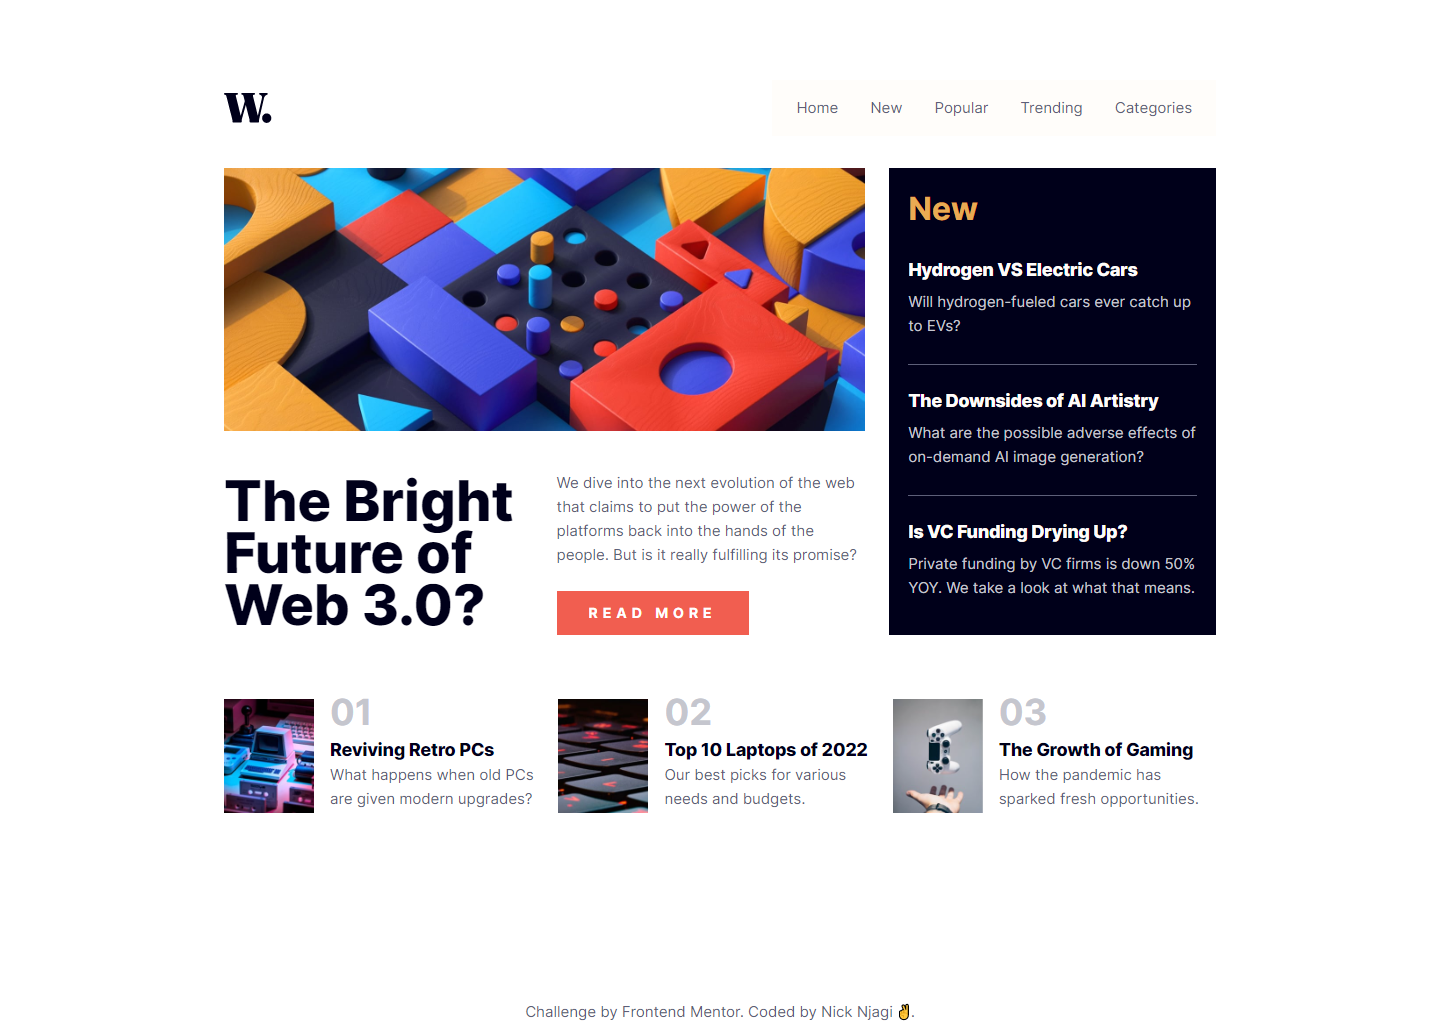
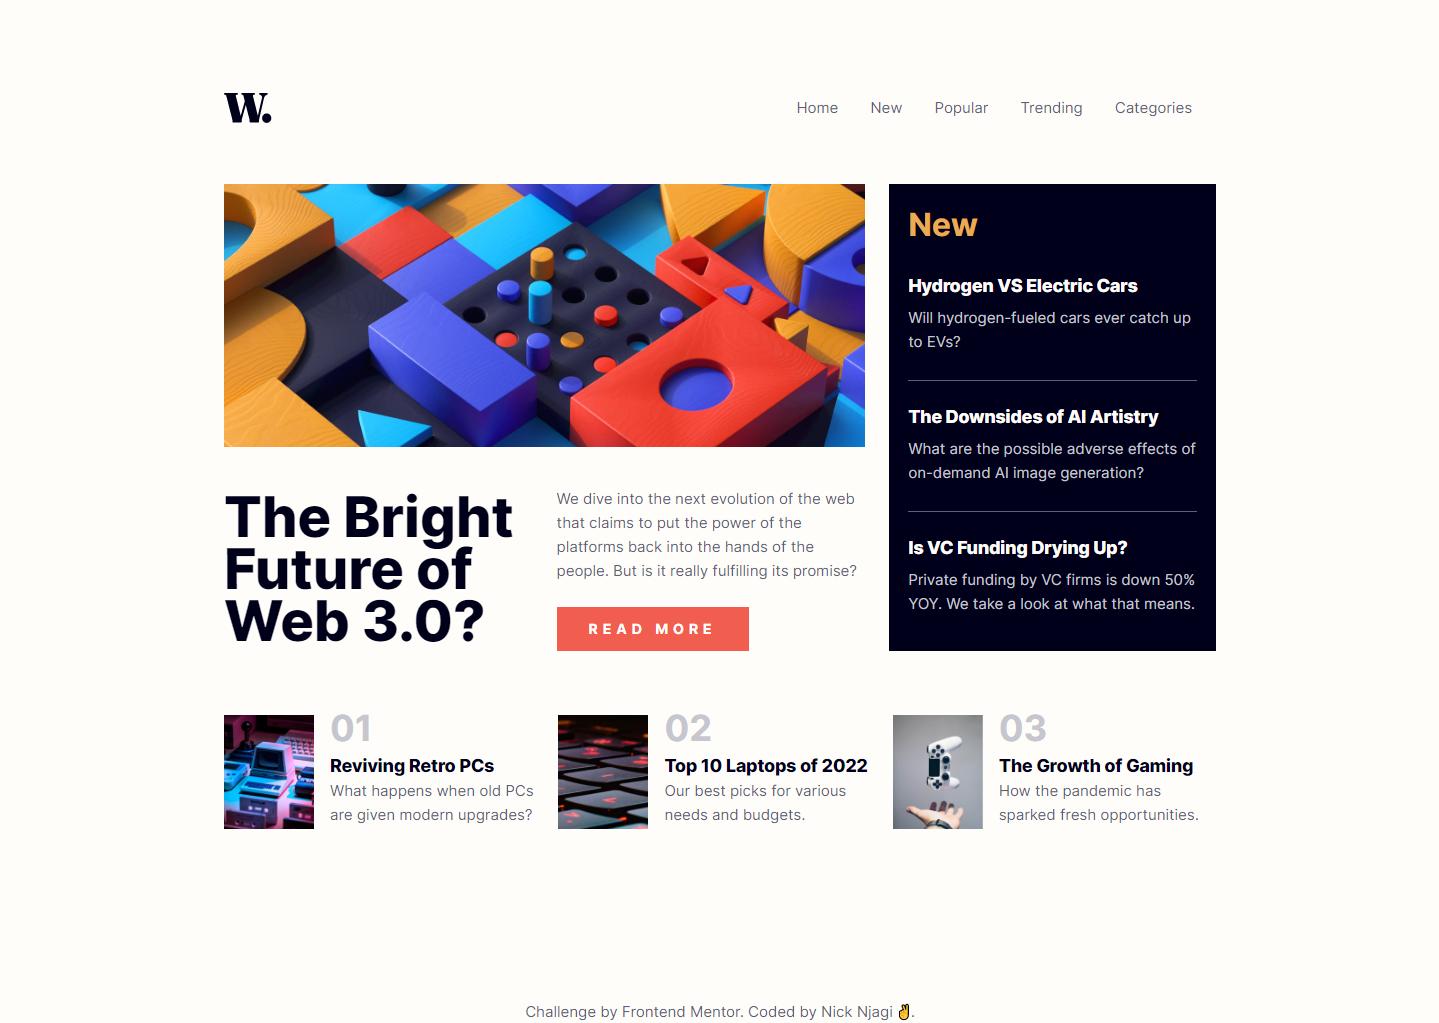
add more margin to the header

diff --git a/style.css b/style.css
@@ -269,6 +269,9 @@ footer{
     max-width: 1024px;
     padding-top: 5rem;
   }
+  header {
+    margin-bottom: 3rem;
+  }
   .toggle-btn {
     display: none;
   }
